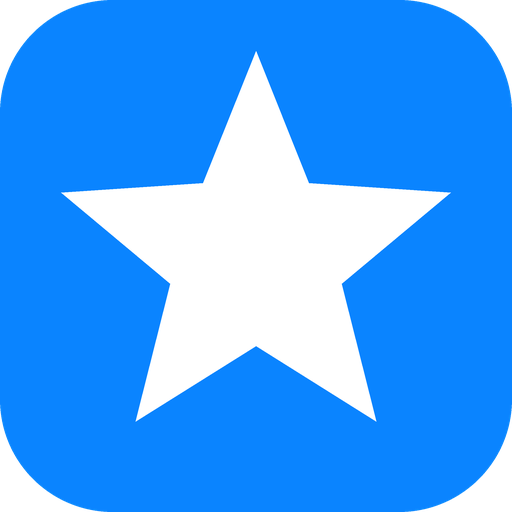
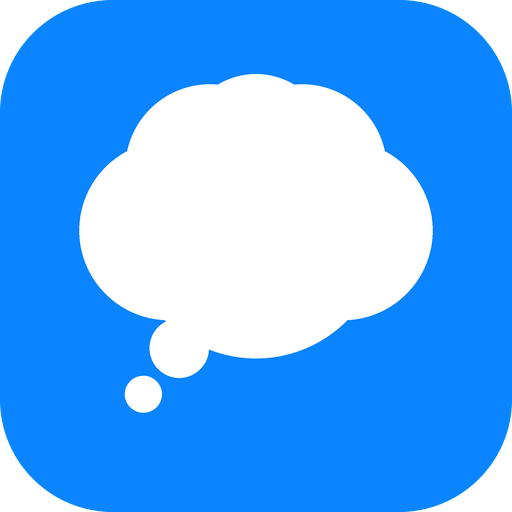
결재 카드 배지 위치·말풍선 색상·합계 노출·수정 기능·아이콘 개선
- 결재 카드: 상태 배지를 사진 하단으로 이동 → 상품명·이유 가로폭 확보
- 결재자 말풍선을 결재 의견(승인/반려/보류)에 따라 초록/빨강/주황으로
- 위시 합계·구매 합계 카드: 결재 대기 탭에서만 숨기고 나머지 탭에선 표시
- 위시 탭 카드 썸네일의 결재중 배지를 불투명 배경으로 (가독성 개선)
- 제목 옆 💭 이모지 추가, PWA 앱 아이콘을 별→생각 말풍선으로 교체
- 상세 하단에 '아이템 수정'을 '아이템 삭제'와 같은 줄로 추가
  · 누르면 추가 폼과 동일한 창에서 이름/사진/가격/이유 수정 (action:update)

Claude-Session: https://claude.ai/code/session_01HhT7L9w1taXZsbKaNPmqAd

Changed region(s): [[0.125, 0.0938, 0.875, 0.8438]]

diff --git a/index.html b/index.html
@@ -102,6 +102,13 @@ main{padding:10px 14px 12px}
 .pill.wait{background:rgba(120,120,128,.14);color:var(--ink-2)}
 .pill.mixed{background:rgba(120,120,128,.14);color:var(--ink-2)}
 .pill.big{position:static;display:inline-block;font-size:13px;padding:6px 12px}
+/* 위시 탭 카드 썸네일 위 배지 — 불투명하게 (사진 위에서도 잘 보이게) */
+.thumb .pill{-webkit-backdrop-filter:none;backdrop-filter:none;box-shadow:0 1px 4px rgba(0,0,0,.12)}
+.thumb .pill.ok{background:#D6F2DF;color:#1E9E4A}
+.thumb .pill.no{background:#FBDDDA;color:var(--red)}
+.thumb .pill.hold{background:#FCE8CE;color:#C97400}
+.thumb .pill.wait{background:#E8E8EA;color:var(--ink-2)}
+.thumb .pill.mixed{background:#E8E8EA;color:var(--ink-2)}
 
 /* ── 빈 화면 ── */
 .empty{text-align:center;padding:70px 20px;color:var(--ink-3)}
@@ -197,6 +204,11 @@ nav{
 }
 .btn-chip:active{transform:scale(.97)}
 .btn-danger{background:none;border:none;color:var(--red);font-size:13px;font-weight:500;margin:18px auto 0;display:block;cursor:pointer;font-family:inherit}
+/* 상세 하단 도구 (수정 · 삭제 한 줄) */
+.detail-tools{display:flex;justify-content:center;gap:24px;margin:18px 0 2px}
+.detail-tools button{background:none;border:none;font-family:inherit;font-size:13px;font-weight:600;cursor:pointer;padding:4px}
+.detail-tools .t-edit{color:var(--blue-deep)}
+.detail-tools .t-del{color:var(--red);font-weight:500}
 
 /* ── 상세 ── */
 .detail-img{width:100%;aspect-ratio:1/1;border-radius:18px;overflow:hidden;background:var(--gray-fill);position:relative;margin-bottom:15px;border:1px solid var(--hairline)}
@@ -256,15 +268,16 @@ nav{
   border-radius:20px;overflow:hidden;
   box-shadow:0 2px 12px rgba(0,0,0,.05);width:100%;
 }
-.pv-top{display:flex;gap:14px;padding:14px;align-items:flex-start;position:relative}
-.pv-img{width:96px;height:96px;flex:0 0 auto;border-radius:14px;overflow:hidden;background:var(--gray-fill);position:relative}
+.pv-top{display:flex;gap:14px;padding:14px;align-items:flex-start}
+.pv-media{flex:0 0 auto;display:flex;flex-direction:column;align-items:center;gap:8px}
+.pv-img{width:96px;height:96px;border-radius:14px;overflow:hidden;background:var(--gray-fill);position:relative}
 .pv-img img{width:100%;height:100%;object-fit:cover;display:block}
 .pv-img .fallback{display:none;width:100%;height:100%;align-items:center;justify-content:center;color:var(--ink-3)}
 .pv-img.noimg .fallback{display:flex}
 .pv-info{flex:1;min-width:0;padding-top:2px;display:flex;flex-direction:column}
-.pv-name{font-size:16px;font-weight:700;line-height:1.35;letter-spacing:-.02em;padding-right:60px;display:-webkit-box;-webkit-line-clamp:2;-webkit-box-orient:vertical;overflow:hidden}
+.pv-name{font-size:16px;font-weight:700;line-height:1.35;letter-spacing:-.02em}
 .pv-price{font-size:20px;font-weight:800;margin-top:4px;letter-spacing:-.02em}
-.pv-badge{position:absolute;top:14px;right:14px}
+.pv-badge{align-self:center}
 .pv-reason{margin-top:10px;background:var(--gray-fill);border-radius:12px;padding:9px 12px;font-size:13px;line-height:1.5}
 .pv-reason .rb-label{font-size:10.5px;font-weight:600;color:var(--ink-2);display:block;margin-bottom:2px}
 .pv-actions{display:flex;gap:8px;padding:12px 14px 14px;border-top:1px solid var(--hairline)}
@@ -274,8 +287,11 @@ nav{
 }
 .ask-btn:active{transform:scale(.98);opacity:.85}
 
-/* 결재 결과 말풍선 (오른쪽, 파랑) */
+/* 결재 결과 말풍선 (오른쪽) — 결재 의견에 따라 색상 */
 .vote-bubble{background:var(--blue);color:#fff;border-bottom-right-radius:6px}
+.vote-bubble.ok{background:var(--green)}
+.vote-bubble.no{background:var(--red)}
+.vote-bubble.hold{background:var(--orange)}
 .vote-bubble b{font-size:14.5px;font-weight:700}
 .vote-bubble .vc{margin-top:5px;font-size:13.5px;line-height:1.5;color:rgba(255,255,255,.92);font-weight:400}
 .redo-btn{background:none;border:none;color:var(--ink-3);font-size:11.5px;font-family:inherit;cursor:pointer;margin-top:5px;padding:2px 4px}
@@ -329,8 +345,18 @@ nav{
 <div class="glow"></div>
 
 <header>
-  <div class="app-title">위시리스트</div>
+  <div class="app-title">위시리스트 💭</div>
   <div class="app-sub">사고 싶은 것들을 기록하고 결재받기</div>
+  <div class="totals" id="totals">
+    <div class="total-card wish glass">
+      <div class="total-label">위시 합계</div>
+      <div class="total-value" id="wishTotal">₩0</div>
+    </div>
+    <div class="total-card bought glass">
+      <div class="total-label">구매 합계</div>
+      <div class="total-value" id="boughtTotal">₩0</div>
+    </div>
+  </div>
 </header>
 
 <main>
@@ -365,7 +391,7 @@ nav{
 <!-- 아이템 추가 시트 -->
 <div class="sheet" id="addSheet">
   <div class="sheet-handle"></div>
-  <div class="sheet-title">새 아이템 추가</div>
+  <div class="sheet-title" id="addTitle">새 아이템 추가</div>
   <div class="field"><label>이름</label><input id="fName" placeholder="예: 무선 키보드" maxlength="60"></div>
   <div class="field">
     <label>사진 URL</label>
@@ -379,7 +405,7 @@ nav{
   </div>
   <div class="field"><label>가격 (원)</label><input id="fPrice" type="number" inputmode="numeric" placeholder="예: 89000"></div>
   <div class="field"><label>사고 싶은 이유</label><textarea id="fReason" placeholder="필요한 이유를 적어주세요"></textarea></div>
-  <label class="check-row"><input type="checkbox" id="fApproval"><span>바로 결재 올리기</span></label>
+  <label class="check-row" id="approvalRow"><input type="checkbox" id="fApproval"><span>바로 결재 올리기</span></label>
   <div style="height:16px"></div>
   <button class="btn btn-primary" id="saveItemBtn">추가하기</button>
 </div>
@@ -413,6 +439,7 @@ const APPROVERS = ['댈님', '쥠님'];  // 결재자 두 명 이름
 let items = [];
 let currentTab = '위시';
 let openItemId = null;
+let editItemId = null; // 아이템 수정 대상 (null이면 새로 추가)
 let voteItemId = null; // 결재 의견 팝업 대상 아이템
 let voteFor = null;    // 결재 의견 팝업 대상 결재자 (1 또는 2)
 let votePick = '';     // 팝업에서 선택한 결과
@@ -467,6 +494,13 @@ function approvalSummary(it) {
 
 /* ── 렌더 ── */
 function render() {
+  // 합계 카드는 결재 대기 탭에서만 숨김
+  const wishSum = items.filter(i => i.status === '위시' || i.status === '결재').reduce((s,i)=>s+i.price,0);
+  const boughtSum = items.filter(i => i.status === '삼').reduce((s,i)=>s+i.price,0);
+  $('#wishTotal').textContent = won(wishSum);
+  $('#boughtTotal').textContent = won(boughtSum);
+  $('#totals').style.display = currentTab === '결재' ? 'none' : 'flex';
+
   document.querySelectorAll('.tab').forEach(t => {
     const n = items.filter(i => i.status === t.dataset.tab).length;
     const b = t.querySelector('.badge');
@@ -530,10 +564,30 @@ $('#backdrop').addEventListener('click', closeSheets);
 
 /* ── 아이템 추가 ── */
 $('#fabBtn').addEventListener('click', () => {
+  editItemId = null;
   ['fName','fPhoto','fPrice','fReason'].forEach(id => $('#'+id).value = '');
   $('#fApproval').checked = false;
+  $('#addTitle').textContent = '새 아이템 추가';
+  $('#saveItemBtn').textContent = '추가하기';
+  $('#approvalRow').style.display = '';
   openSheet('#addSheet');
 });
+
+/* ── 아이템 수정 (추가와 같은 폼 재사용) ── */
+function openEdit(id) {
+  const it = items.find(i => String(i.id) === String(id));
+  if (!it) return;
+  editItemId = id;
+  $('#fName').value = it.name || '';
+  $('#fPhoto').value = it.photo || '';
+  $('#fPrice').value = (it.price ?? '') === '' ? '' : it.price;
+  $('#fReason').value = it.reason || '';
+  $('#addTitle').textContent = '아이템 수정';
+  $('#saveItemBtn').textContent = '수정하기';
+  $('#approvalRow').style.display = 'none';   // 수정 시 결재 체크박스는 숨김
+  closeSheets();
+  openSheet('#addSheet');
+}
 
 /* ── 이름으로 네이버 이미지 검색 (사진 URL 따오기용) ── */
 $('#searchPhotoBtn').addEventListener('click', () => {
@@ -548,6 +602,24 @@ $('#saveItemBtn').addEventListener('click', async () => {
   const price = Number($('#fPrice').value);
   if (!name) return toast('이름을 입력해 주세요');
   if (!price && price !== 0) return toast('가격을 입력해 주세요');
+  const photo = $('#fPhoto').value.trim();
+  const reason = $('#fReason').value.trim();
+
+  // 수정 모드
+  if (editItemId) {
+    const id = editItemId;
+    editItemId = null;
+    const it = items.find(i => String(i.id) === String(id));
+    if (!it) { closeSheets(); return; }
+    Object.assign(it, { name, price, photo, reason });
+    closeSheets();
+    refreshViews();
+    toast('저장 중…');
+    const r = await api({ action:'update', id, name, price, photo, reason });
+    toast(r.ok ? '수정했습니다' : '저장에 실패했습니다. 다시 시도해 주세요');
+    return;
+  }
+
   const status = $('#fApproval').checked ? '결재' : '위시';
   const item = {
     name, price,
@@ -605,16 +677,18 @@ function renderApprovalChat(it, opts = {}) {
     <div class="msg left card-msg">
       <div class="pv-card">
         <div class="pv-top">
-          <div class="pv-img ${it.photo ? '' : 'noimg'}">
-            ${it.photo ? `<img src="${esc(it.photo)}" alt="" onerror="this.parentElement.classList.add('noimg');this.remove()">` : ''}
-            <div class="fallback">${IMG_ICON}</div>
+          <div class="pv-media">
+            <div class="pv-img ${it.photo ? '' : 'noimg'}">
+              ${it.photo ? `<img src="${esc(it.photo)}" alt="" onerror="this.parentElement.classList.add('noimg');this.remove()">` : ''}
+              <div class="fallback">${IMG_ICON}</div>
+            </div>
+            <span class="pill big ${st.cls} pv-badge">${st.label}</span>
           </div>
           <div class="pv-info">
             <div class="pv-name">${esc(it.name)}</div>
             <div class="pv-price">${won(it.price)}</div>
             ${it.reason ? `<div class="pv-reason"><span class="rb-label">사고 싶은 이유</span>${esc(it.reason)}</div>` : ''}
           </div>
-          <span class="pill big ${st.cls} pv-badge">${st.label}</span>
         </div>
         ${askBtns}
       </div>
@@ -626,10 +700,11 @@ function renderApprovalChat(it, opts = {}) {
   [1,2].forEach(n => { if (it['a'+n] && !ordered.includes(n)) ordered.push(n); });
   const votes = ordered.map(n => {
     const result = it['a'+n], comment = it['a'+n+'c'];
+    const cls = result === '승인' ? 'ok' : result === '반려' ? 'no' : 'hold';
     return `
       <div class="msg right">
         <div class="msg-name">${esc(APPROVERS[n-1])}</div>
-        <div class="bubble vote-bubble">
+        <div class="bubble vote-bubble ${cls}">
           <b>${result}</b>${comment ? `<div class="vc">${esc(comment)}</div>` : ''}
         </div>
         <button class="redo-btn" onclick="resetVote('${it.id}',${n})">다시 결재</button>
@@ -652,8 +727,16 @@ function renderApprovalChat(it, opts = {}) {
       </div>`;
   }
 
-  const del = opts.withDelete ? `<button class="btn-danger" onclick="deleteItem('${it.id}')">아이템 삭제</button>` : '';
-  return `<div class="approval-convo"><div class="chat">${card}${votes}${decide}</div></div>${del}`;
+  return `<div class="approval-convo"><div class="chat">${card}${votes}${decide}</div>
+    ${detailTools(it.id)}</div>`;
+}
+
+/* 상세 하단 수정·삭제 도구 */
+function detailTools(id) {
+  return `<div class="detail-tools">
+    <button class="t-edit" onclick="openEdit('${id}')">아이템 수정</button>
+    <button class="t-del" onclick="deleteItem('${id}')">아이템 삭제</button>
+  </div>`;
 }
 
 /* ── 일반 상세 뷰 (위시/안삼/구매완료) ── */
@@ -706,7 +789,7 @@ function renderPlainDetail(it) {
     ${approvalHtml}
     <div class="section-label">처리</div>
     ${actions}
-    <button class="btn-danger" onclick="deleteItem()">아이템 삭제</button>`;
+    ${detailTools(it.id)}`;
 }
 
 /* 결재 탭 인라인/상세 시트 동시 갱신 */
